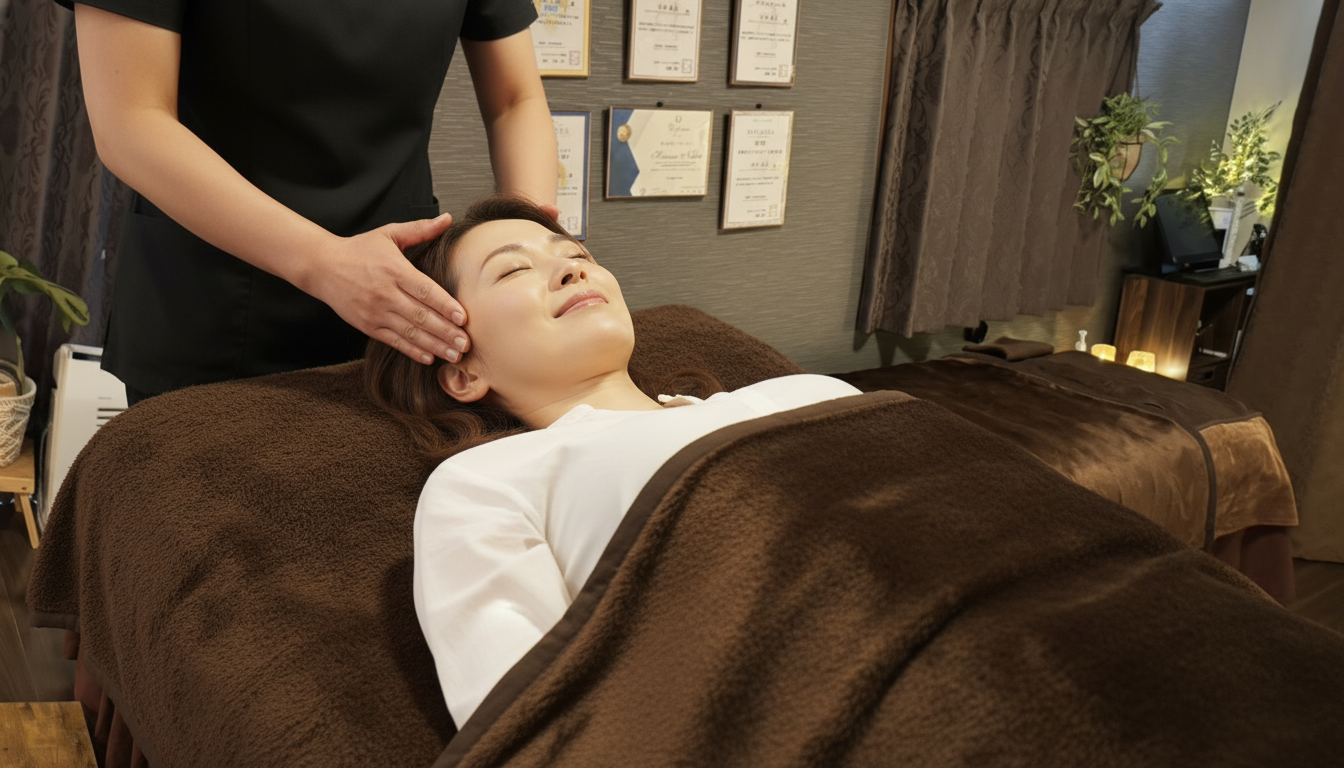
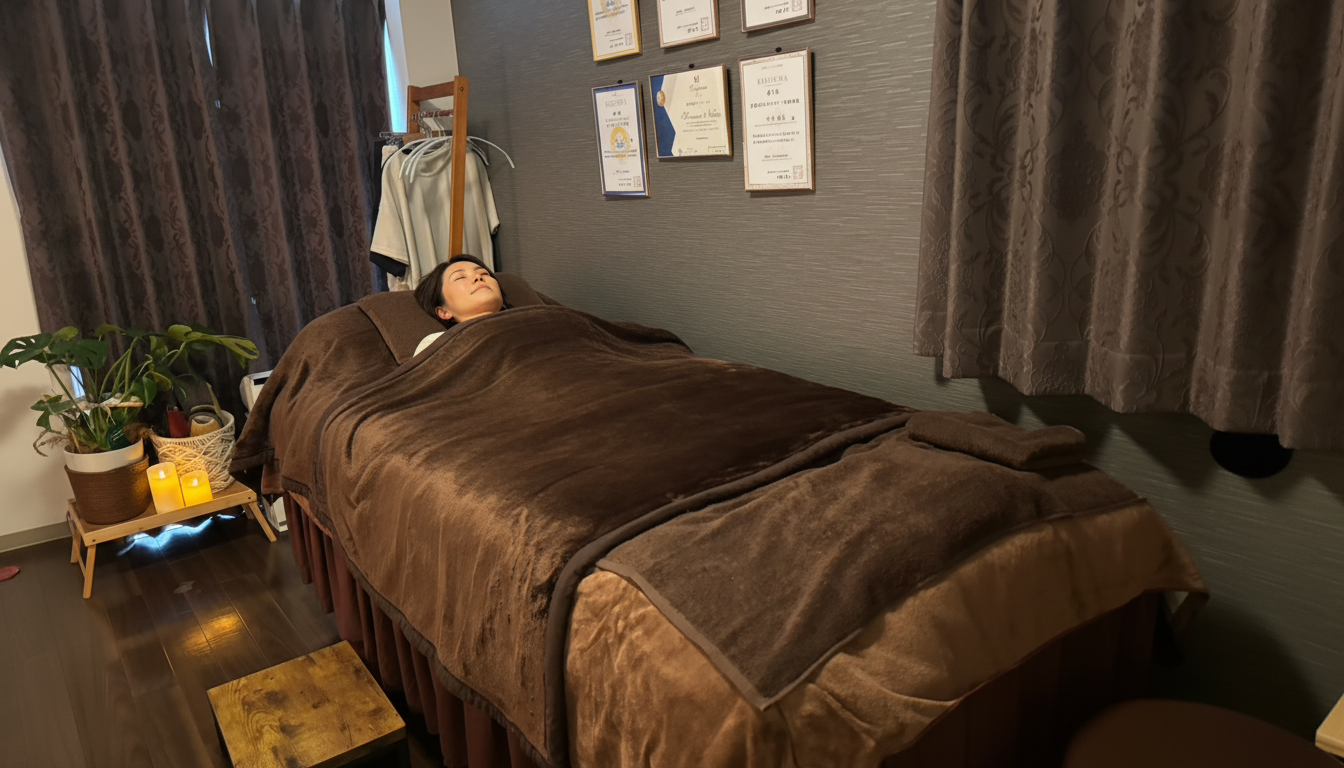
こもれび v32: シーン2（PC1台修正）・シーン7（実写施術ルーム再現）画像差し替え

diff --git a/komorebi-preview.html b/komorebi-preview.html
@@ -108,11 +108,22 @@
   <header>
     <h1>こもれび様 動画プレビュー</h1>
     <p>ドライヘッドスパ専門店 こもれび様｜画像つなぎ合わせ版</p>
-    <span class="badge">v1 ご提案版 — 2026/5/7</span>
+    <span class="badge">v32 画像修正版 — 2026/5/8</span>
   </header>
 
+  <section class="section" style="border:2px solid var(--gold);">
+    <h2>🛠 v32 修正ポイント（中井様ご指摘反映）</h2>
+    <ul style="margin-left:22px; font-size:0.95rem; line-height:2;">
+      <li><strong>シーン2（PC疲れ男性）:</strong> キーボード2台で違和感があった点を修正。<u>デスクトップPC1台＋キーボード1台のみ</u>の自然な構図に再生成しました。</li>
+      <li><strong>シーン7（女性施術）:</strong> 実際の店舗ルーム写真をベースに再現。<u>茶色のベッド・診断書6枚・ダマスク柄カーテン・観葉植物・キャンドル</u>など実写の特徴を反映しました。</li>
+    </ul>
+    <p style="font-size:0.85rem; color:var(--text-light); margin-top:12px;">
+      ※ 上の動画はv31版のままです。本ページの新画像（シーン2・7）でOKをいただいたあと、動画化（v32）に進めます。
+    </p>
+  </section>
+
   <section class="section">
-    <h2>📺 動画プレビュー（20秒）</h2>
+    <h2>📺 動画プレビュー（20秒・v31）</h2>
     <div class="video-wrap">
       <video src="komorebi-v31-preview.mp4" controls playsinline preload="metadata"></video>
     </div>
@@ -143,11 +154,11 @@
           <div class="scene-desc"><span class="tag tag-before">before</span>夜のオフィスで一人疲労</div>
         </div>
       </div>
-      <div class="scene">
-        <img src="komorebi_scenes/02.png" alt="">
+      <div class="scene" style="border:2px solid var(--gold);">
+        <img src="komorebi_scenes/02.png?v=32" alt="">
         <div class="scene-info">
-          <span class="scene-num">2</span><span class="scene-title">PC疲れで目を押さえる男性</span>
-          <div class="scene-desc"><span class="tag tag-before">before</span>長時間PC作業で眼精疲労</div>
+          <span class="scene-num">2</span><span class="scene-title">PC疲れで目を押さえる男性 <span style="color:var(--gold);font-size:0.75rem;">★v32更新</span></span>
+          <div class="scene-desc"><span class="tag tag-before">before</span>PC1台に修正・キーボード重複解消</div>
         </div>
       </div>
       <div class="scene">
@@ -178,11 +189,11 @@
           <div class="scene-desc"><span class="tag tag-store">体験</span>代表の手元のみ・リラックス</div>
         </div>
       </div>
-      <div class="scene">
-        <img src="komorebi_scenes/07.png" alt="">
+      <div class="scene" style="border:2px solid var(--gold);">
+        <img src="komorebi_scenes/07.png?v=32" alt="">
         <div class="scene-info">
-          <span class="scene-num">7</span><span class="scene-title">女性が施術を受ける（着衣）</span>
-          <div class="scene-desc"><span class="tag tag-store">体験</span>服を着たまま施術</div>
+          <span class="scene-num">7</span><span class="scene-title">女性が施術を受ける（着衣） <span style="color:var(--gold);font-size:0.75rem;">★v32更新</span></span>
+          <div class="scene-desc"><span class="tag tag-store">体験</span>実際の店舗ルームを忠実再現</div>
         </div>
       </div>
       <div class="scene">
